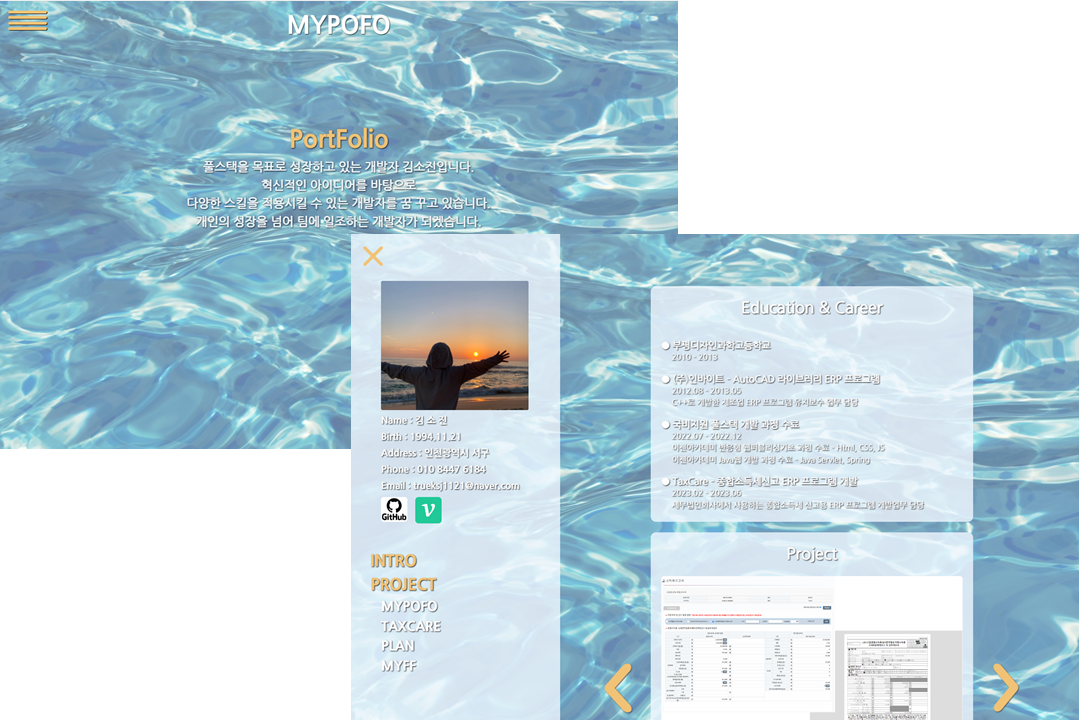
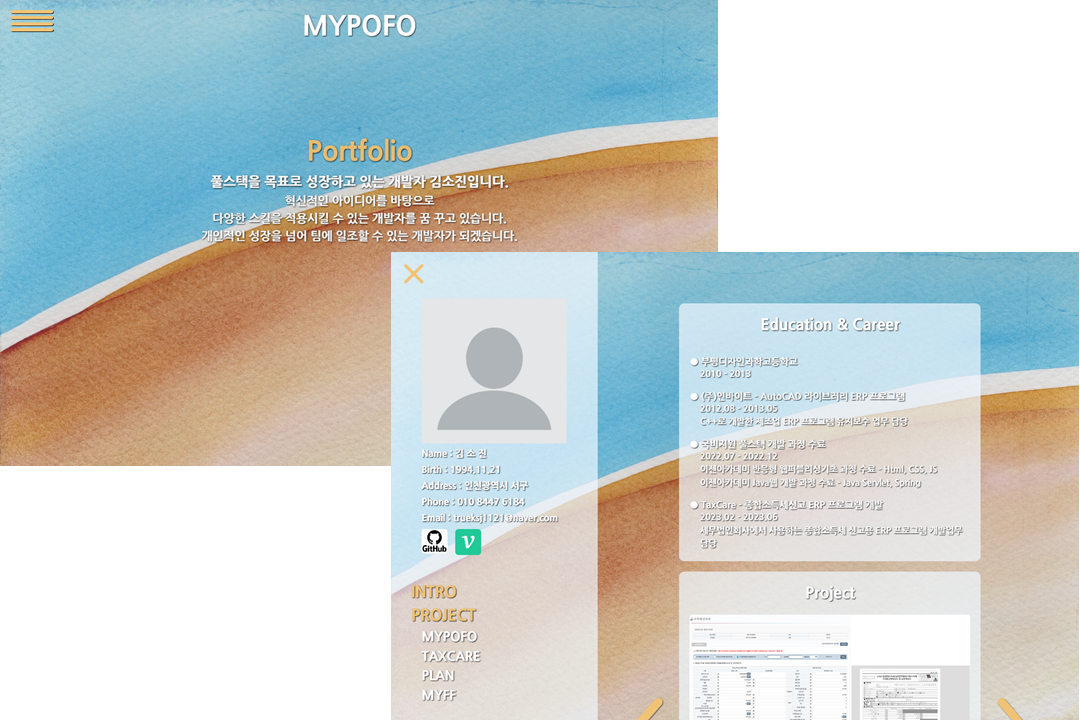
날씨 API 기능 추가

diff --git a/src/App.js b/src/App.js
@@ -6,6 +6,7 @@ import Project from './components/Project';
 import NotFound from './components/NotFound';
 import reset_Style from './css/reset.css';
 import styles from './css/App.module.scss';
+import axios from 'axios';
 
 const Front = () => {
   useEffect(() => {
@@ -23,12 +24,15 @@ const Front = () => {
   );
 }
 
+
+
 let currentUrl = "/";
 
 function App() {
   const [sideNav, setSideNav] = useState(false);
   const [scroll, setScroll] = useState(false);
   const [smallSize, setSmallSize] = useState(false);
+  const [bgimg, setBgimg] = useState(0);
   const location = useLocation();
 
   const handleScroll = () => {
@@ -41,6 +45,19 @@ function App() {
     else setSmallSize(false);
   }
 
+  const getWeather = async() => {
+    //현재 위도,경도
+    const lat = 37.566535;
+    const lon = 126.9779692;
+
+    //API
+    const API_KEY = "29e6fdb8f4a2c1394c290696729a9c86";
+    const url = `https://api.openweathermap.org/data/2.5/weather?lat=${lat}&lon=${lon}&appid=${API_KEY}&units=metric`;
+
+    const res = await axios.get(url);
+    console.log(res.data);
+  }
+
   useEffect(() => {
     if(currentUrl === '/' && location.pathname === '/main') setSideNav(true);
     else setSideNav(false);
@@ -50,6 +67,8 @@ function App() {
   }, [location]);
   
   useEffect(() => {
+    getWeather();
+    
     if(window.innerWidth < 850) setSmallSize(true);
     else setSmallSize(false);
     window.addEventListener('scroll', handleScroll);
@@ -62,7 +81,7 @@ function App() {
 
   return (
     <div className={styles.container}>
-      <img className={styles.bgimg} src={`${process.env.PUBLIC_URL}/image/bg2.jpg`} alt='background'/>
+      <img className={styles.bgimg} src={`${process.env.PUBLIC_URL}/image/paint${bgimg}.jpg`} alt='background'/>
       <Header sideNav={sideNav}/>
       <div className={styles.empty_Box} style={sideNav? {width: '500px'} : {width: '0px'}}></div>
       <div className={styles.nav_Btn} onClick={() => setSideNav((sideNav) => !sideNav)}>

diff --git a/src/css/App.module.scss b/src/css/App.module.scss
@@ -1,25 +1,30 @@
 @import './_variable.scss';
 h1{
+    font-family: 'extra';
     font-size: 30px;
     color: white;
     text-shadow: 1px 1px 2px black;
 }
 h2{
+    font-family: 'extra';
     font-size: 25px;
     color: white;
     text-shadow: 1px 1px 2px black;
 }
 h3{
+    font-family: 'bold';
     font-size: 22px;
     color: white;
     text-shadow: 1px 1px 2px black;
 }
 h4{
+    font-family: 'bold';
     font-size: 18px;
     color: white;
     text-shadow: 1px 1px 2px black;
 }
 p{
+    font-family: 'bold';
     font-size: 16px;
     color: white;
     text-shadow: 1px 1px 2px black;
@@ -28,7 +33,9 @@ p{
     width: 100%;
     min-width: 500px;
     height: 100%;
+    min-height: 100vh;
     display: flex;
+    background-color: rgba($color: black, $alpha: 0.1);
     .empty_Box{
         transition: all 0.3s;
     }
@@ -38,7 +45,7 @@ p{
     z-index: -99;
     width: 100%;
     height: 100%;
-    opacity: 0.6;
+    opacity: 0.8;
 }
 .nav_Btn{
     width: 80px;
@@ -92,8 +99,7 @@ p{
 }
 .front{
     width: 800px;
-    margin: 0 auto;
-    padding-top: 250px;
+    margin: auto;
     align-items: center;
     h1{
         font-size: 50px;
@@ -107,7 +113,7 @@ p{
     }
     h2,h3{
         text-align: center;
-        color: rgba($color: aliceblue, $alpha: 0);
+        color: rgba($color: white, $alpha: 0);
         text-shadow: none;
         animation: frontText2 5s;
         animation-iteration-count: infinite;
@@ -129,11 +135,11 @@ p{
 
 @keyframes frontText2 {
     from{
-        color: rgba($color: aliceblue, $alpha: 0.0);
+        color: rgba($color: white, $alpha: 0.0);
         text-shadow: none;
     }
     to{
-        color: rgba($color: aliceblue, $alpha: 1);
+        color: rgba($color: white, $alpha: 1);
         text-shadow: 1px 1px 3px black;
     }
 }

diff --git a/src/components/Portfolio.js b/src/components/Portfolio.js
@@ -12,14 +12,17 @@ const Portfolio = () => {
                 <h2><a className={styles.codeview} href='https://github.com/ksojin1/mypofo'><span>▶</span>GitHub</a></h2>
                 <p>지금 보고 계신 저의 포트폴리오 사이트이며 디바이스 종류에 따라 웹페이지의 크기가 자동으로 변경되는 반응형 웹으로 구현했습니다.
                 </p>
-
                 <img src={`${process.env.PUBLIC_URL}/image/mypofo_skill.png`} alt="stack"/>
-                <br/>
-                <div className={styles.img_Div}><img src={`${process.env.PUBLIC_URL}/image/mypofo3.png`} alt="메인페이지"/></div>
+                
+                <div className={styles.img_Div}><img src={`${process.env.PUBLIC_URL}/image/mypofo2.png`} alt="메인페이지"/></div>
+            </div>
+            <div className={styles.cont_Div}>
+                <h2>배경이미지</h2>
                 <br/>
                 <div className={styles.img_Div}><img src={`${process.env.PUBLIC_URL}/image/mypofo1.png`} alt="메인페이지"/></div>
-                <br/>
-                <div className={styles.img_Div}><img src={`${process.env.PUBLIC_URL}/image/mypofo2.png`} alt="메인페이지"/></div>
+                <p>
+                    Open API를 활용해 날씨에 따라 배경이미지가 변경되도록 구현했습니다.
+                </p>
             </div>
             <div className={styles.end_Div}>
                 <h2 style={{fontSize: '18px'}}>끝까지 봐주셔서 감사합니다.</h2>

diff --git a/src/components/Myff.js b/src/components/Myff.js
@@ -57,7 +57,6 @@ const Myff = () => {
                 <br/>
                 <div className={styles.img_Div}><img src={`${process.env.PUBLIC_URL}/image/myff8.png`} alt="사진미리보기"/></div>
                 <p>
-                    글쓰기에서 사진 업로드 및 미리보기 기능을 구현했습니다.<br/>
                     사용자가 이미지파일을 업로드하면 FileReader를 활용해 URL로 미리보기를 만들고
                     이미지파일을 State에 담아 추가, 삭제 기능을 구현했습니다.
                 </p>
@@ -68,7 +67,6 @@ const Myff = () => {
                 <div className={styles.img_Div}><img src={`${process.env.PUBLIC_URL}/image/myff6.png`} alt="비밀번호"/></div>
                 <div className={styles.img_Div}><img src={`${process.env.PUBLIC_URL}/image/myff7.png`} alt="메일"/></div>
                 <p>
-                    비밀번호 찾기 및 변경 기능을 구현했습니다.<br/>
                     이메일로 회원가입을 하기때문에 비밀번호 찾기에서 이메일을 입력하면 백에서 메일을 보내고
                     암호화된 비밀번호가 포함된 주소를 클릭하면 비밀번호를 체크하고 변경할 수 있도록 해주는 기능입니다.
                 </p>

diff --git a/src/css/Header.module.scss b/src/css/Header.module.scss
@@ -5,6 +5,7 @@
     top: 0px;
     width: 400px;
     height: 100%;
+    min-height: 100px;
     background-color: $boxcolor;
     transition: all 0.3s;
     .nav_Div{
@@ -15,10 +16,12 @@
             margin-top: 90px;
             color: white;
             font-size: 18px;
-            font-family: 'bold';
+            font-family: 'extra';
             text-shadow: 1px 1px 2px black;
             img{
-                width: 100%; height: auto;
+                width: 100%;
+                height: auto;
+                max-height: 280px;
                 border-radius: 3px;
             }
             li{margin-bottom: 10px;}

diff --git a/src/css/Main.module.scss b/src/css/Main.module.scss
@@ -17,7 +17,7 @@
         padding: 20px;
     }
     .wrap > div{
-        margin-bottom: 20px;
+        margin-bottom: 30px;
     }
     .wrap{
         width: 60%;
@@ -29,9 +29,6 @@
         }
         h2,h3,h4:hover{color: $yellow;}
         h4{margin-top: 20px;}
-        p{  
-            font-size: 15px;
-        }
         img{
             width: 100%;
             height: auto;

diff --git a/src/css/_variable.scss b/src/css/_variable.scss
@@ -1,2 +1,2 @@
 $yellow: #F1C376;
-$boxcolor: rgba($color: aliceblue, $alpha: 0.8);
+$boxcolor: rgba($color: aliceblue, $alpha: 0.7);
